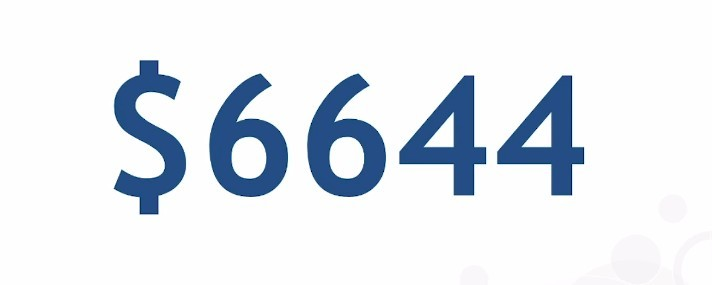
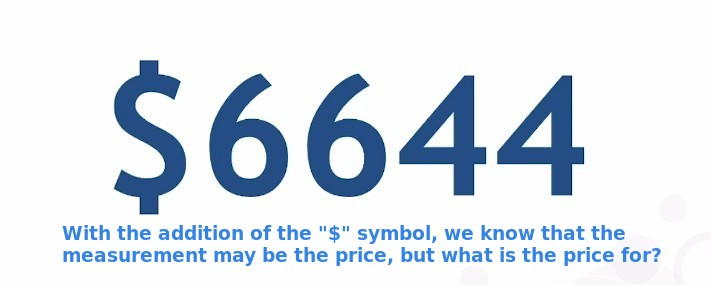
qq

Changed region(s): [[0.0618, 0.786, 0.927, 0.9263]]

diff --git a/5-build-blocks/30-basic-princ-o-dimensionality/memo.md b/5-build-blocks/30-basic-princ-o-dimensionality/memo.md
@@ -1,6 +1,10 @@
 ## **How to making data-driven decisions**
 
+> What kind of data will help us get data-driven decisions.
+
 ![Alt how to making data-driven decisions with dimenstion](pic/01.jpg)
+
+### _Example starting with pure measurement_
 
 ![Alt pure measurement](pic/02.jpg)
 
@@ -20,4 +24,8 @@
 
 ![Alt another implied for](pic/10.jpg)
 
+## **Conclusion**
+
 ![Alt critical lesson](pic/11.jpg)
+
+- Dimensional modeling is the fundamental point, and if we do a good job of filtering and grouping our measurements, we can easily derive insights that drive decisions.
